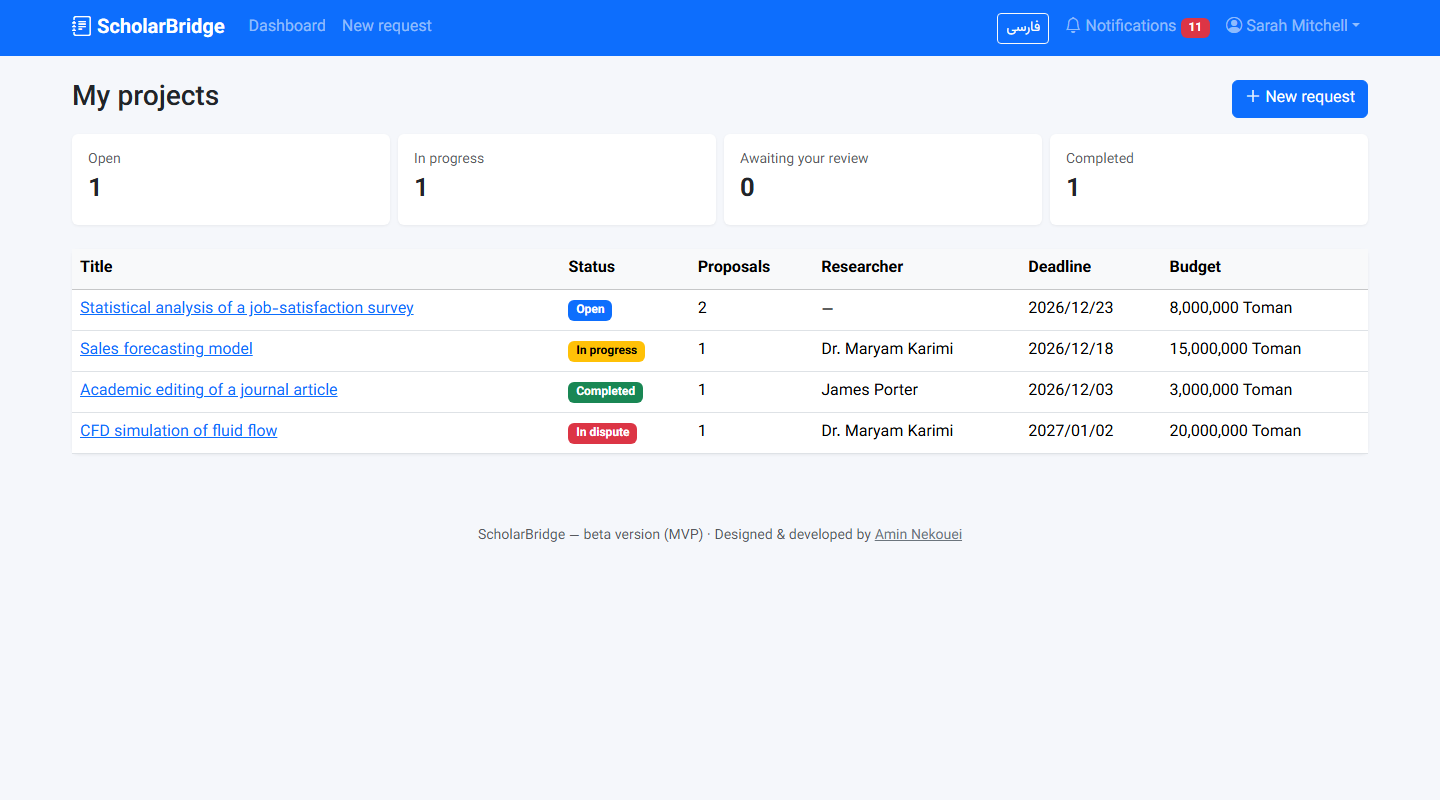
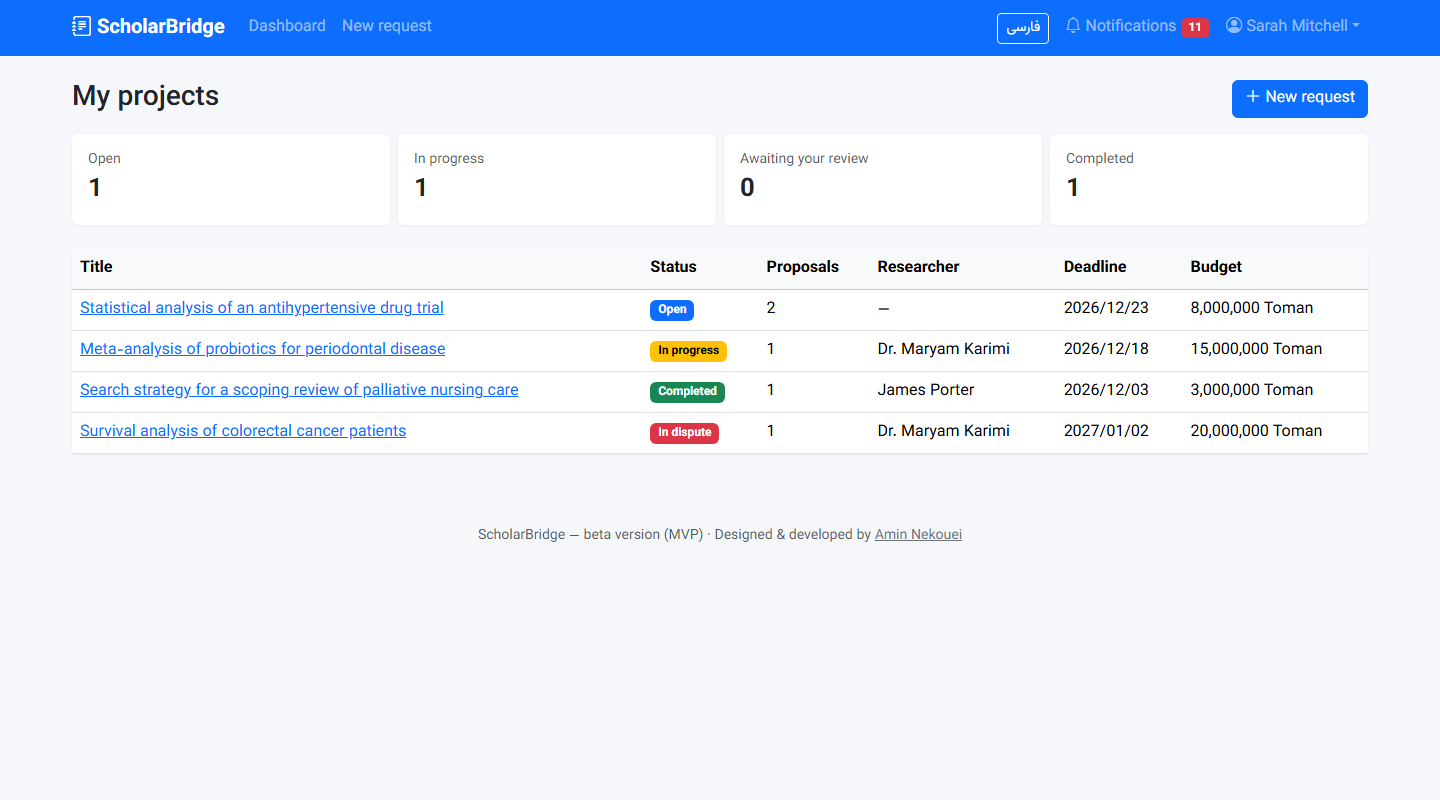
Update showcase for the health-research focus with new English screenshots

diff --git a/README.md b/README.md
@@ -2,7 +2,7 @@
 
 # ScholarBridge · پژوهشیار
 
-**A bilingual marketplace that connects people who need research done with vetted researchers.**
+**A bilingual marketplace for health research: search strategies, systematic reviews, epidemiology and biostatistics, delivered by vetted researchers.**
 
 Persian-first (RTL) with full English (LTR) support · Built with Django
 
@@ -27,7 +27,13 @@ The demo runs on a free hosting tier, so **the first load can take 30–60 secon
 
 ## What it does
 
-Clients post a research request with a description, deadline and budget. Researchers whose profiles an admin has approved send proposals with a price and timeline. The client picks one, and from then on the whole job lives inside the project: messages, files, delivery, revision requests and the final rating.
+ScholarBridge serves students and researchers in medicine, dentistry, nursing and the allied health sciences. Typical requests are:
+
+- **Search strategy design:** systematic search strings on MeSH and Emtree, adapted for PubMed, Embase, Scopus, Web of Science, CINAHL and Cochrane.
+- **Systematic reviews and meta-analysis:** screening, data extraction, risk-of-bias assessment and synthesis, reported to PRISMA and GRADE.
+- **Epidemiology and biostatistics:** study design, sample size, clinical trial analysis, regression and survival analysis in R, Stata or SPSS.
+
+Clients post a request with a description, deadline and budget. Researchers whose profiles an admin has approved send proposals with a price and timeline. The client picks one, and from then on the whole job lives inside the project: messages, files, delivery, revision requests and the final rating.
 
 - **Three roles:** client, researcher and admin. Each sees only what it should, and every permission is checked on the server.
 - **Researcher vetting:** a researcher's credentials are reviewed by an admin before they can send a first proposal.
@@ -64,11 +70,11 @@ stateDiagram-v2
 
 ## Screenshots
 
-**Project workspace.** Proposals, conversation, files, available actions and status history on one page:
+**Project workspace.** A meta-analysis in progress, with proposals, conversation, files, available actions and status history on one page:
 
 <img src="screenshots/project-workspace-en.png" alt="Project workspace (English)" width="100%">
 
-**A completed project.** The full audit trail, including a revision round, the delivered files and the client's rating:
+**A completed project.** A scoping-review search strategy with the full audit trail, including a revision round, the delivered files and the client's rating:
 
 <img src="screenshots/project-history-en.png" alt="Completed project with status history" width="100%">
 
